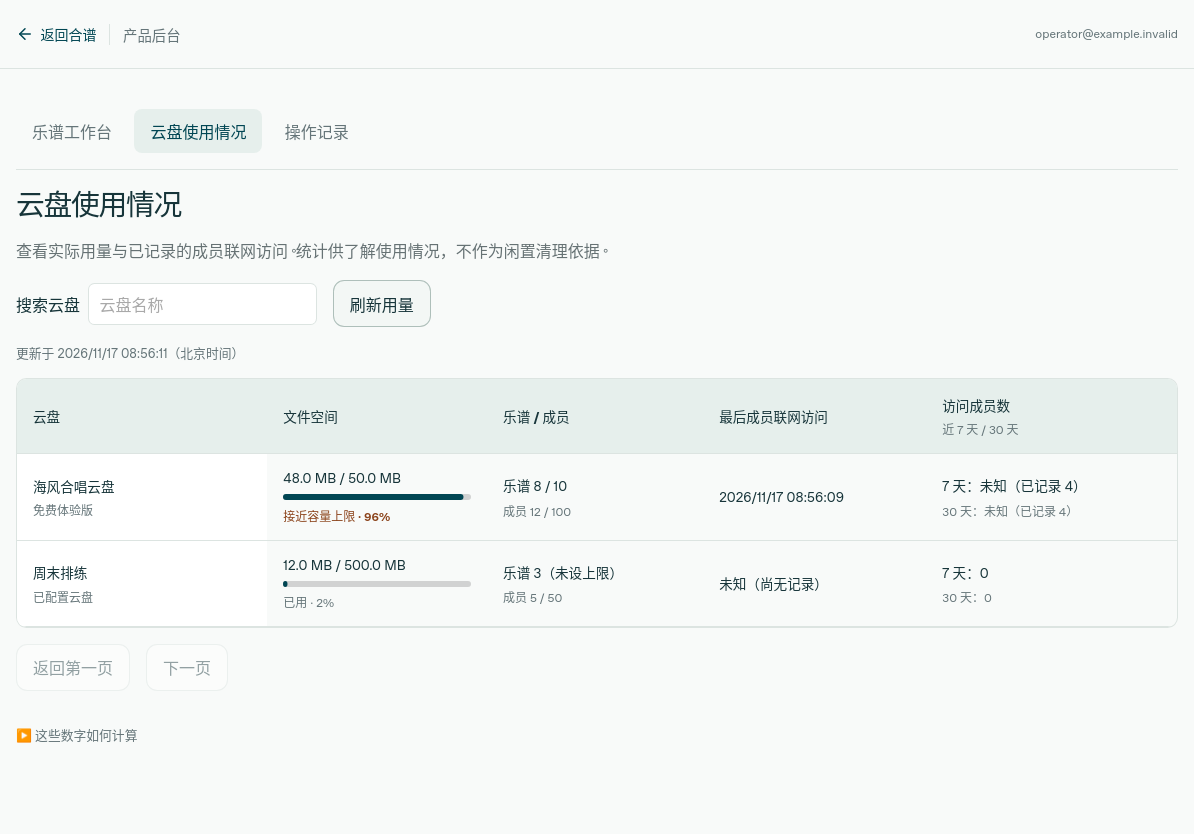
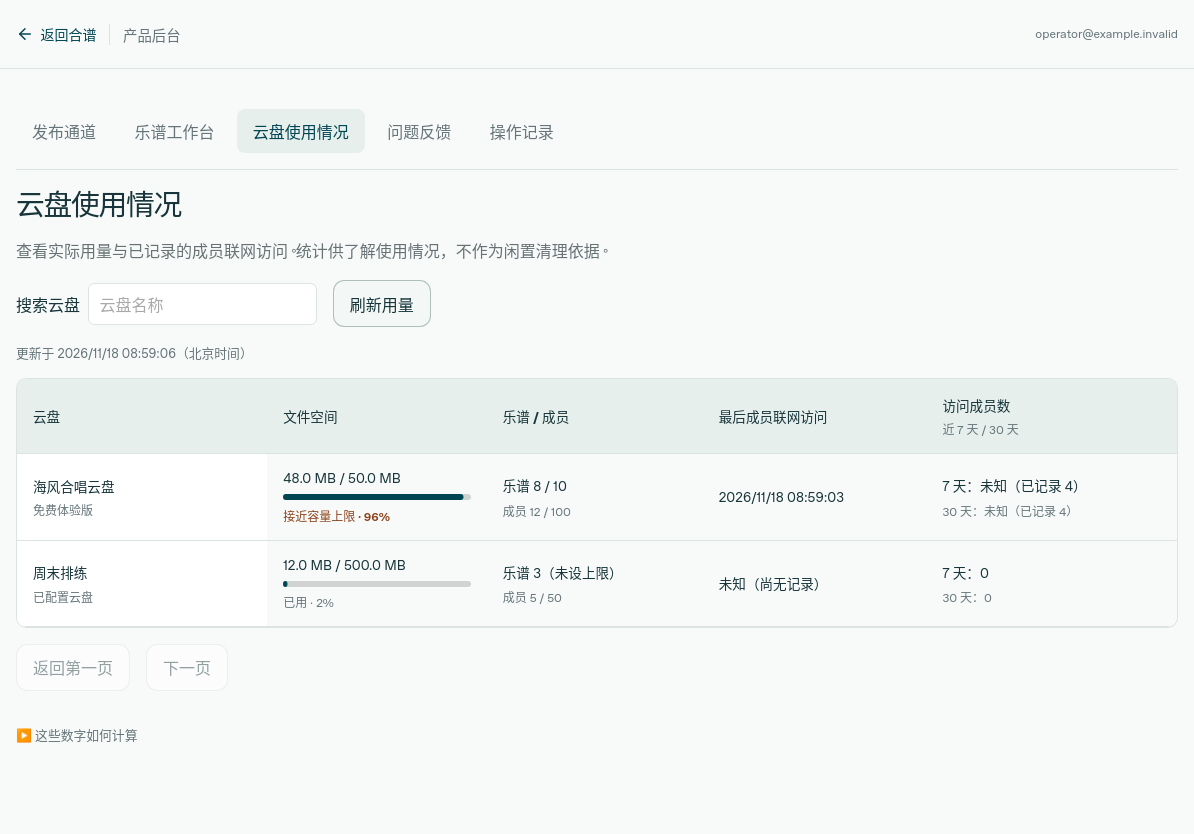
test: verify unified admin navigation and refresh usage screenshots

diff --git a/worker/drive-visits.test.ts b/worker/drive-visits.test.ts
@@ -30,13 +30,9 @@ async function user(email: string) {
 const visit = (cookie = ownerCookie, id = owner, headers = {}) => call(`/choirs/${drive}/visits`, cookie, {
   method: "POST", headers: { "x-same-page-owner-user-id": id, "x-same-page-visit": "foreground", ...headers },
 });
-// #674 turns the legacy rosters into read-only views. Exercise both real
-// schema states without ever writing a compatibility view.
-async function grantOperator(userId: string, legacy = "product_operators") {
-  const unified = await env.DB.prepare("SELECT name FROM sqlite_schema WHERE type='table' AND name='product_administrators'").first();
-  const table = unified ? "product_administrators" : legacy;
-  await env.DB.prepare(`INSERT INTO ${table}(user_id) VALUES(?)`).bind(userId).run();
-  return table;
+async function grantOperator(userId: string) {
+  await env.DB.prepare("INSERT INTO product_administrators(user_id) VALUES(?)").bind(userId).run();
+  return "product_administrators";
 }
 const records = () => env.DB.prepare("SELECT * FROM drive_member_visits").all();
 beforeEach(async () => {
@@ -57,12 +53,10 @@ it("records only fenced active members, excluding operators, previews and pollin
   expect((await call(`/choirs/${drive}/usage`, ownerCookie)).status).toBe(200);
   expect((await call("/admin/drive-usage", operatorCookie)).status).toBe(200);
   expect((await records()).results).toHaveLength(0);
-  for (const table of ["product_operators", "diagnostic_operators", "release_operators"]) {
-    const authorityTable = await grantOperator(owner, table);
-    expect((await visit()).status).toBe(204);
-    expect((await records()).results).toHaveLength(0);
-    await env.DB.prepare(`DELETE FROM ${authorityTable} WHERE user_id=?`).bind(owner).run();
-  }
+  await grantOperator(owner);
+  expect((await visit()).status).toBe(204);
+  expect((await records()).results).toHaveLength(0);
+  await env.DB.prepare("DELETE FROM product_administrators WHERE user_id=?").bind(owner).run();
   await env.DB.prepare("UPDATE choirs SET is_preview_entry=1,guest_admission_mode='open',join_code_hash=NULL WHERE id=?").bind(drive).run();
   expect((await visit()).status).toBe(204);
   expect((await records()).results).toHaveLength(0);

diff --git a/docs/evidence/drive-usage/README.md b/docs/evidence/drive-usage/README.md
@@ -2,17 +2,19 @@
 
 [本轮问题追查与 #674 集成说明](followup.md)。
 
-独立于 #671，开发过程中已跟进包含 #671 的 main `e566a69`；没有修改其路由安全区逻辑。入口为后台“云盘使用情况”（`/admin?view=usage`）。
+基于包含统一产品管理员 #674 的 main `ce82b13b95bc3c5a5776a51dacd774326c88c625`。入口为后台“云盘使用情况”（`/admin?view=usage`），不改变 #671 的安全区布局。
 
 展示实际文件容量、当前乐谱数、有效成员关系数与实际配置额度；达到容量 90% 提示接近上限。新增成员联网访问记录及滚动 7/30 天访问人数，历史未覆盖的窗口明确显示“未知（已记录 N）”，从未收到报告显示“未知（尚无记录）”。定义、采样误差、隐私与发布顺序见 [ADR-0022](../../adr/0022-record-foreground-member-visits.md)。
 
 ## 界面截图
 
-Linux Playwright 1.64.1 / Chromium、WebKit；没有 iPadOS 或真实设备验收。截图使用合成邮箱、云盘名称、额度与访问数。真实本地 Worker/D1 链路先验证一名普通成员的访问进入汇总，以及同时为成员的运营身份被排除；随后只拦截该测试浏览器的 usage 响应以稳定展示 96% 容量、实际 100 人上限、新盘无记录、旧盘历史未知等场景。这些示例数字不是生产数据，也不是对真实云盘的用量判断。
+Linux Playwright 1.64.1 / Chromium、WebKit；没有 iPadOS 或真实设备验收。截图使用统一 `product_administrators` fixture 的合成管理员及合成邮箱、云盘名称、额度与访问数。五个入口完整可见：发布通道、乐谱工作台、云盘使用情况、问题反馈、操作记录；两引擎现有链路逐一打开并验证对应内容。真实本地 Worker/D1 链路先验证一名普通成员的访问进入汇总，以及同时为成员的运营身份被排除；随后只拦截该测试浏览器的 usage 响应以稳定展示 96% 容量、实际 100 人上限、新盘无记录、旧盘历史未知等场景。这些示例数字不是生产数据，也不是对真实云盘的用量判断。
 
 ![WebKit 横屏 1194×834](webkit-1194.png)
 
 [WebKit 竖屏 834×1194](webkit-834.png) · [手机 390×844](webkit-390.png) · [Chromium 横屏](chromium-1194.png)
+
+已知导航限制：从“问题反馈”直接点击“操作记录”会因跨路由重建回到工作台（main 同样保留本地 audit 状态）；本次不改该既有行为。链路检查从工作台打开操作记录。
 
 小屏表格在有名称、可键盘聚焦的独立区域横向滚动，保留行列标题；未用隐藏页面溢出来裁掉列。截图不包含硬件安全区注入，#671 的安全区证据仍单独保留。
 

diff --git a/docs/adr/0022-record-foreground-member-visits.md b/docs/adr/0022-record-foreground-member-visits.md
@@ -29,6 +29,6 @@ context.waitUntil(env.DB.prepare("DELETE FROM drive_member_visits WHERE last_see
   .bind(Date.now() - 30 * 24 * 60 * 60_000).run());
 ```
 
-与统一产品管理员 PR #674 的推荐顺序是：先 #674 的 `0039_product_administrators.sql`，再本 PR 的 `0040_drive_visits.sql`。本迁移此前未部署，因此可在审核阶段改号。旧三张名单在 #674 后成为只读兼容视图，运行时排除查询仍兼容；测试授权需识别统一表，不能写旧视图。共享浏览器 fixture 由 #674 更新，本 PR 不覆盖它。两份 PR 的临时组合树须完成迁移保留性和相关授权测试，再分别审核；不改动 #674 的授权来源或分支。
+基线已包含统一产品管理员 #674 的 `0039_product_administrators.sql`，本 PR 使用后续 `0040_drive_visits.sql`。0039 仅迁入原发布管理员，不改变该授权来源；旧三张名单保持只读兼容视图，运行时排除查询继续兼容。Worker 测试与共享浏览器 fixture 均只向 `product_administrators` 授权，不写旧视图。迁移验证在统一授权保留性检查之后独立验证 0040，不覆盖已合并的迁移或共享 fixture。
 
 用真实本地 D1 验证身份、有效成员、运营者与公开体验排除、原子节流、窗口边界、删除与数据保留；客户端检查可见性、离线、身份切换与无定时报告；浏览器覆盖真实成员进入→后台聚合，截图只使用合成数据。该决策补充 ADR-0019，不改变个人层隐私；不实现通知、闲置工作台、自动或人工清理操作。现有闲置 runbook 的可靠证据要求仍适用。

diff --git a/docs/evidence/drive-usage/followup.md b/docs/evidence/drive-usage/followup.md
@@ -12,9 +12,7 @@
 
 ## 组合顺序与口径
 
-只读检查 #674 head `42cd997d98b9faa8bd548e60ff2cfaf496cb85ee`，没有修改其分支。推荐先 #674 的 `0039_product_administrators.sql`，再本 PR 的 `0040_drive_visits.sql`；访问迁移未部署，因此此次改号没有修改已上线迁移历史。迁移验证拆为独立步骤，在统一授权验证之后执行访问验证，组合补丁无需覆盖 #674 的授权或共享浏览器 fixture。
-
-Worker 测试在统一表存在时只向 `product_administrators` 授权，在旧 schema 下向原表授权；从不写只读兼容视图。运行时只读查询原三张名单的兼容视图，因此自动使用统一身份。临时组合树已通过完整 Worker（8 项纯逻辑、204 项 D1 集成）、构建，以及两引擎后台工作台与使用情况链路 4/4。最终迁移保留性结果见 PR。
+分支基于已合并 #674 的 main `ce82b13b95bc3c5a5776a51dacd774326c88c625`。0039 统一管理员迁移、迁入来源、只读兼容视图及共享浏览器 fixture 均保持 main 原样；本 PR 的 0040 在其后执行，迁移保留性验证为独立步骤。Worker 测试只向统一表授权。截图与浏览器链路采用同一统一管理员合成身份，五个后台入口均可见并逐一验证，截图不表示生产数据或真实 iPadOS 验收。最终 head 的验证结果记录在 PR 描述。
 
 运营身份按访问发生时排除。成员访问后才成为管理员时，原合法记录仍计入当前有效成员的窗口人数，新的管理员访问不刷新记录；该边界已加入核心 D1 检查。
 
